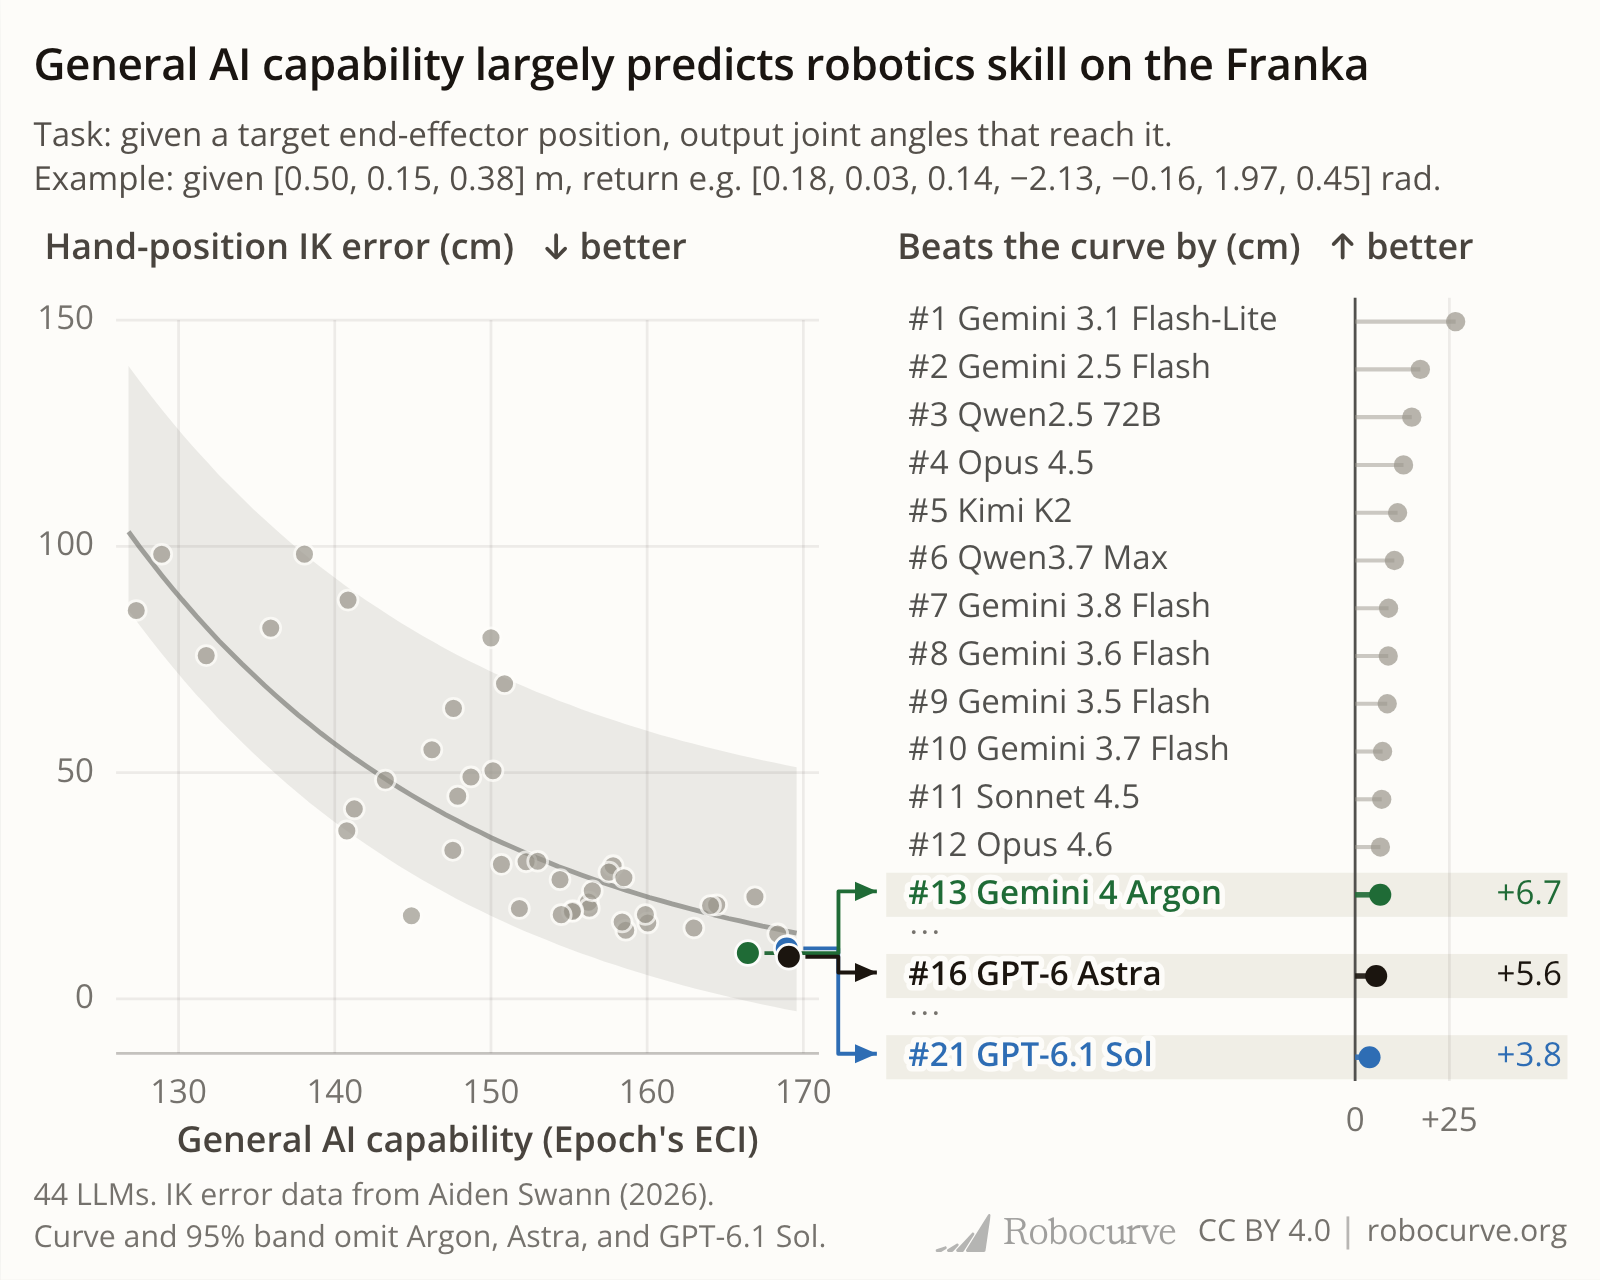
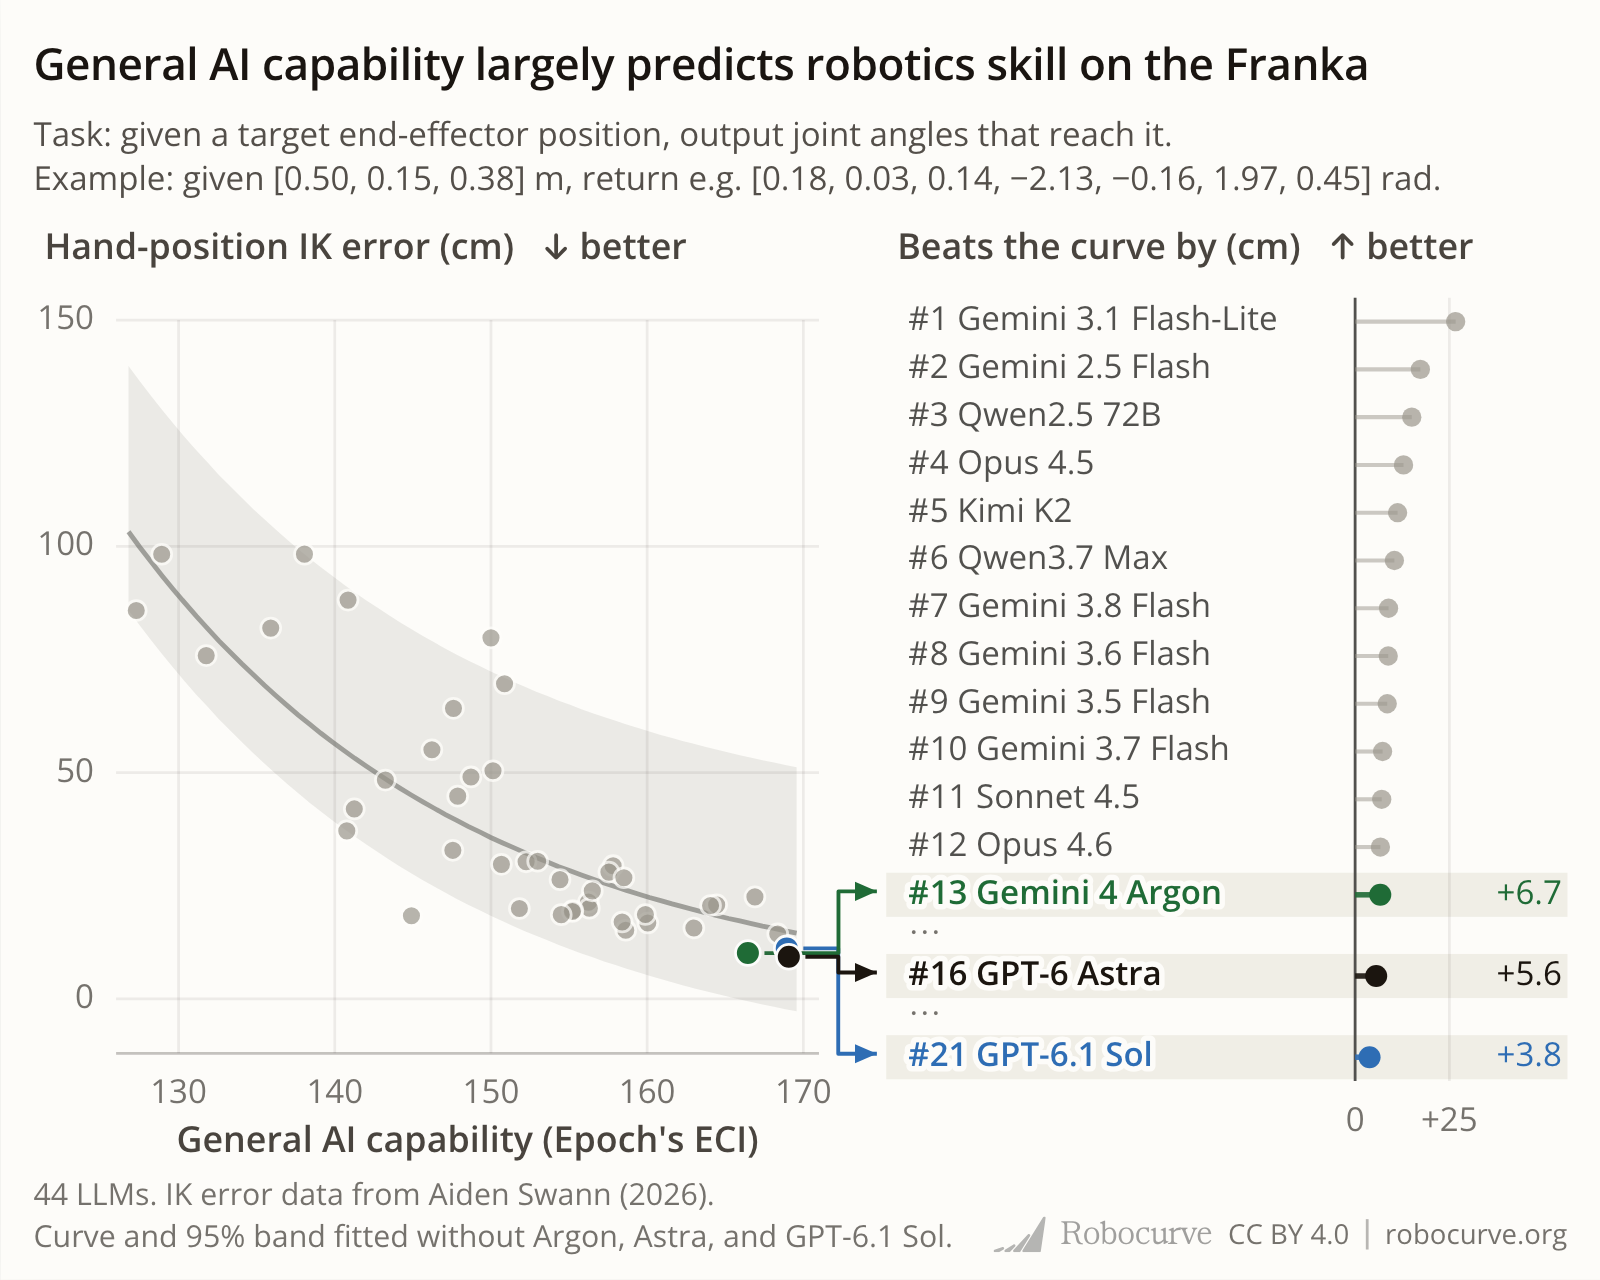
Nov-09: caption reads 'fitted without' (#4)

Changed region(s): [[0.5625, 0.9375, 0.9688, 1.0], [0.3438, 0.9375, 0.5312, 1.0], [0.2188, 0.9375, 0.3438, 1.0]]

diff --git a/tweets/2026/November/Nov-09/site/src/KinematicsCards.jsx b/tweets/2026/November/Nov-09/site/src/KinematicsCards.jsx
@@ -379,7 +379,7 @@ const KW_X = ['Beats the curve by (cm)', 'Beats the curve by (points)', 'Beats t
 const MOBILE_Y = ['Hand-position error (cm)', 'MCQs answered correctly (%)', 'IK error (cm)', 'Distance from real Panda (cm)'];
 function PairChart({ i, metric, topN = 0, mobile = false, wideLeft = false }) {
   const boxRef = useRef(null);
-  const cap = mobile ? <>44 LLMs. {['FK error', 'MCQ', 'IK error', 'Edited-arm'][i]} data from Aiden Swann (2026).<br />Curve and 95% band {wideLeft ? 'omit' : 'exclude'} Argon, Astra, and <span style={{ whiteSpace: 'nowrap' }}>GPT-6.1 Sol</span>.</> : PAIR_CAP(metric, topN, i === 1 ? 'points' : 'cm');
+  const cap = mobile ? <>44 LLMs. {['FK error', 'MCQ', 'IK error', 'Edited-arm'][i]} data from Aiden Swann (2026).<br />Curve and 95% band {wideLeft ? 'fitted without' : 'exclude'} Argon, Astra, and <span style={{ whiteSpace: 'nowrap' }}>GPT-6.1 Sol</span>.</> : PAIR_CAP(metric, topN, i === 1 ? 'points' : 'cm');
   // wideLeft (5:4): caption sits under the scatter so the ranking runs down to the footer (user 2026-11-09).
   return (
     <figure className="rc-chart" style={{ flex: 1, minHeight: 0, display: 'flex', flexDirection: 'column' }}>
@@ -392,12 +392,12 @@ function PairChart({ i, metric, topN = 0, mobile = false, wideLeft = false }) {
         <div style={{ flex: mobile ? 1.2 : 1, minWidth: 0, display: 'flex', position: 'relative', zIndex: 1 }}>{cloneElement(KIN_RANK_PANELS[i].chart(), { noCaption: true, rankOnly: true, topN, compact: mobile || topN > 0, ...(i === 3 ? { xTitle: 'Distance below predicted (cm)' } : {}), ...(mobile && i === 0 ? { xTitle: 'Error below predicted (cm)' } : {}), ...(wideLeft ? { xTitle: KW_X[i], hint: i < 3 ? '↑ better' : '↑ more overfit' } : {}) })}</div>
       </div>
       {wideLeft ? ( /* 5:4: caption left, attribution right on one row (user 2026-11-09) */
-        <div style={{ display: 'flex', alignItems: 'flex-end', justifyContent: 'space-between', gap: 12, marginTop: 4 }}>
-          <figcaption className="rc-chart-cap" style={{ margin: 0 }}>{cap}</figcaption>
-          <div style={{ display: 'flex', alignItems: 'center', gap: 8, flexShrink: 0 }}>
-            <Wordmark size={16} aria-label="Robocurve" style={{ opacity: 0.4, filter: 'grayscale(1)' }} />
-            <span style={{ display: 'inline-flex', alignItems: 'center', gap: 6, fontFamily: 'var(--font-sans)', fontSize: 11, color: 'rgba(27,21,15,0.6)' }}>
-              CC BY 4.0<span aria-hidden="true" style={{ width: 1, height: 12, background: 'rgba(27,21,15,0.3)' }} />robocurve.org
+        <div style={{ display: 'flex', alignItems: 'flex-end', justifyContent: 'space-between', gap: 8, marginTop: 4 }}>
+          <figcaption className="rc-chart-cap" style={{ margin: 0, whiteSpace: 'nowrap' }}>{cap}</figcaption>
+          <div style={{ display: 'flex', alignItems: 'center', gap: 6, flexShrink: 0 }}>
+            <Wordmark size={14} aria-label="Robocurve" style={{ opacity: 0.4, filter: 'grayscale(1)' }} />
+            <span style={{ display: 'inline-flex', alignItems: 'center', gap: 6, fontFamily: 'var(--font-sans)', fontSize: 10, color: 'rgba(27,21,15,0.6)' }}>
+              CC BY 4.0<span aria-hidden="true" style={{ width: 1, height: 11, background: 'rgba(27,21,15,0.3)' }} />robocurve.org
             </span>
           </div>
         </div>

diff --git a/tweets/2026/November/Nov-09/site/entry.jsx b/tweets/2026/November/Nov-09/site/entry.jsx
@@ -1,6 +1,6 @@
 /* Mounts the four 5:4 Franka Panda cards (KIN_WIDE54_PANELS, ids kw-*) exactly as the website's unlisted /draft/
    page framed them: 580x464 CSS each, shot at 1600/580 DPR by shot.mjs. The CSS below is copied from src/DraftPage.jsx of
-   robocurve/website (commit f4e4a2e, branch kinematics-draft); the attribution sits inside each card, beside the caption. */
+   robocurve/website (commit 67f4b5a, branch kinematics-draft); the attribution sits inside each card, beside the caption. */
 import { createRoot } from 'react-dom/client';
 import { Panel } from './src/Trends.jsx';
 import { KIN_WIDE54_PANELS } from './src/KinematicsCards.jsx';

diff --git a/tweets/2026/November/Nov-09/README.md b/tweets/2026/November/Nov-09/README.md
@@ -39,7 +39,7 @@ Run `./regenerate.sh` to rebuild all four PNGs (1600x1280). It needs Python 3 wi
 
 ## How the images are made
 
-`site/` is a trimmed copy of the `robocurve/website` repo at commit `f4e4a2e` (branch `kinematics-draft`,
+`site/` is a trimmed copy of the `robocurve/website` repo at commit `67f4b5a` (branch `kinematics-draft`,
 2026-11-09). `package.json`, `package-lock.json`, `tokens/fonts-local.css` and the self-hosted Open Sans and Space
 Grotesk fonts are reused from `tweets/2026/October/Oct-19/site`; `build.mjs` and `shot.mjs` are adapted from it (card
 ids, output names, page title). Code comments in the copied files refer to their source repos (for example, the
